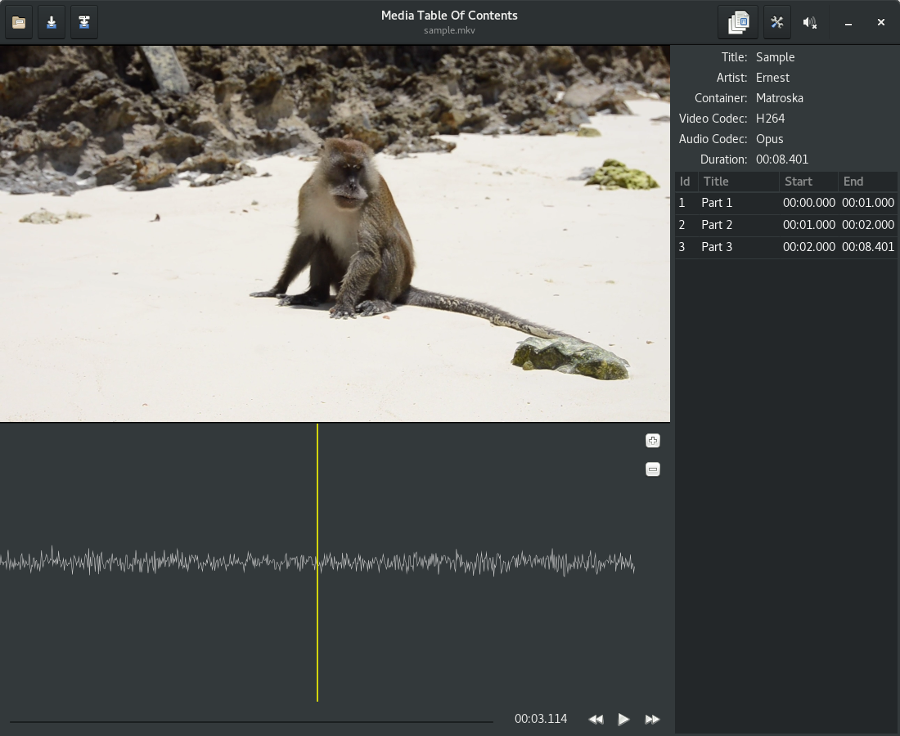
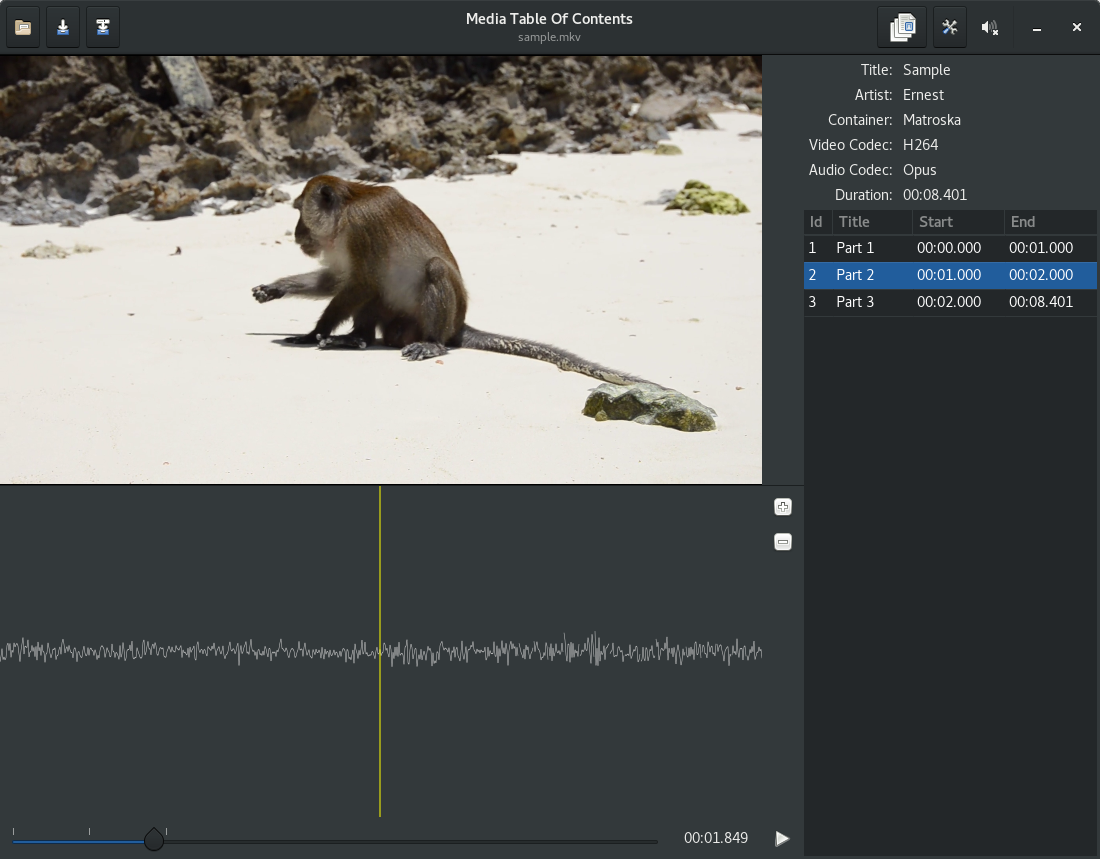
Update screenshots and readme (#14)

Changed region(s): [[0.0, 0.0, 1.0, 0.9375], [0.56, 0.9688, 0.7467, 1.0], [0.0311, 0.9688, 0.1244, 1.0]]

diff --git a/README.md b/README.md
@@ -2,9 +2,8 @@
 Media-TOC is an application to build a table of contents from a media file or
 to split a media file into chapters.
 
-**Important**: Media-TOC is in an early stage of development. Don't expect
-anything usable soon. Of course, you can [contribute](#contribute) to the project
-if you find it interesting.
+**Important**: Media-TOC is in an early stage of development. Of course, you can
+[contribute](#contribute) to the project if you find it interesting.
 
 ## Status
 At the moment, **Media-TOC** can:
@@ -12,9 +11,9 @@ At the moment, **Media-TOC** can:
 - Display the video frame
 - Display the cover image if available.
 - Display metadata from the media.
-- Display the audio wave form.
-- Display chapters' data.
-- Play the media, draw the video, the audio waveform and play the audio.
+- Display chapters list and marks on the timeline at the begining of each chapter.
+- Play the media, draw the video, the audio waveform, play the audio and select
+the chapter in the list while playing.
 
 ## <a name='ui'></a>Screenshots
 ![Media-TOC UI Video](assets/media-toc_video.png)
@@ -47,8 +46,8 @@ Select the nightly toolchain. See the full documentation
 [here](https://github.com/rust-lang-nursery/rustup.rs#installation).
 
 ## Dependencies
-Rust dependencies are handled by [Cargo](http://doc.crates.io/). You will also need the
-following packages installed on your OS:
+Rust dependencies are handled by [Cargo](http://doc.crates.io/). You will also
+need the following packages installed on your OS:
 
 ### Fedora
 ```
@@ -56,22 +55,18 @@ $ sudo dnf install gtk3-devel glib2-devel gstreamer1-devel gstreamer1-plugins-ba
 ```
 
 ### Debian & Unbuntu
-*Need confirmation*
+*Needs confirmation*
 ```
 $ sudo apt-get install libgtk-3-dev libgstreamer1.0-dev libgstreamer-plugins-base1.0-dev
 ```
 
 ### MacOS
-*Need confirmation*
+*Needs confirmation*
 ```
 $ brew install gtk+3 gstreamer-1.0-devel
 ```
 
 ### Windows
-#### Status
-`media-toc` builds and runs successfully on Windows 64bits.
-
-#### Environment Preparation
 - MSYS2: follow [this guide](http://www.msys2.org/).
 - Install the development toolchain, GTK and GStreamer<br>
 Note: for a 32bits system, use `mingw-w64-i686-...`
@@ -81,6 +76,7 @@ pacman -S mingw-w64-x86_64-toolchain base-devel mingw-w64-x86_64-gtk3 \
     mingw-w64-x86_64-gst-plugins-good mingw-w64-x86_64-gst-plugins-bad \
     mingw-w64-x86_64-gst-plugins-ugly
 ```
+Note: opencv seems necessary to play a video.
 - Rustup: launch the [rustup installer](https://www.rustup.rs/).
 When asked for the default host triple, select `x86_64-pc-windows-gnu` (or
 `i686-pc-windows-gnu` for a 32bits system), then select `nightly`.
